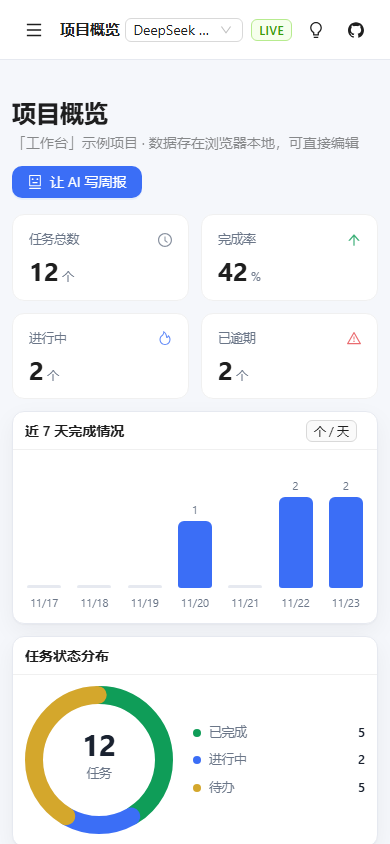
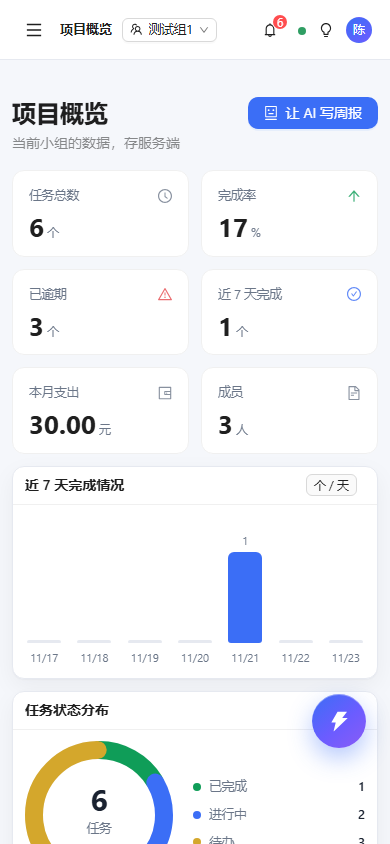
fix: 手机端顶栏溢出与悬浮球菜单方向
- 顶栏次要控件（命令面板、模型下拉、LIVE 标签、GitHub）收进 header-extra，<768px 隐藏
- 手机上改为 汉堡 + 标题 + 小组 + 提醒 + 健康指示灯 + 头像，标题不再竖排换行
- 主题与模型切换移进头像菜单（含模型二级菜单），手机也能切
- 悬浮球在左半边时菜单向右展开、靠近顶部时改为向下展开
- 菜单加实底容器与阴影，压在卡片上也能看清；手机球体略缩小

diff --git a/src/components/AppShell.tsx b/src/components/AppShell.tsx
@@ -68,6 +68,13 @@ const NAV = [
   { key: '/settings', icon: <SettingOutlined />, label: '设置与数据' },
 ];
 
+const HEALTH_DOT: Record<string, string> = {
+  green: '#2f9e63',
+  orange: '#d4a72c',
+  red: '#e5484d',
+  default: '#c4ccd8',
+};
+
 const MENU_ITEMS = [
   { type: 'group' as const, label: '工作台', children: NAV.slice(0, 6) },
   { type: 'group' as const, label: 'AI 能力', children: NAV.slice(6, 9) },
@@ -270,6 +277,7 @@ export function AppShell() {
               </Badge>
             </Popover>
 
+            <span className="header-extra">
             <Tooltip title={SHORTCUT_LABEL + ' 打开命令面板'}>
               <Button
                 size="small"
@@ -318,6 +326,24 @@ export function AppShell() {
               </Tag>
             </Tooltip>
 
+            <Tooltip title="GitHub">
+              <Button
+                size="small"
+                type="text"
+                aria-label="GitHub"
+                icon={<GithubOutlined />}
+                onClick={() => window.open('https://github.com/mobai02/ai-console', '_blank', 'noopener')}
+              />
+            </Tooltip>
+            </span>
+
+            <Tooltip title={healthMeta.tooltip}>
+              <span
+                className="health-dot"
+                style={{ background: HEALTH_DOT[healthMeta.color] ?? '#c4ccd8' }}
+              />
+            </Tooltip>
+
             <Tooltip title={dark ? '切到浅色' : '切到深色'}>
               <Button
                 size="small"
@@ -339,10 +365,26 @@ export function AppShell() {
                   },
                   { type: 'divider' },
                   { key: 'groups', icon: <SwapOutlined />, label: '切换 / 加入小组' },
+                  {
+                    key: 'model',
+                    icon: <ExperimentOutlined />,
+                    label: `模型（${activeModel?.label ?? '-'}）`,
+                    children: models.map((model) => ({
+                      key: `model:${model.id}`,
+                      label: model.label,
+                    })),
+                  },
+                  {
+                    key: 'theme',
+                    icon: dark ? <BulbFilled /> : <BulbOutlined />,
+                    label: dark ? '切到浅色' : '切到深色',
+                  },
                   { key: 'logout', icon: <LogoutOutlined />, label: '退出登录', danger: true },
                 ],
                 onClick: ({ key }) => {
                   if (key === 'groups') navigate('/groups');
+                  if (key === 'theme') toggleDark();
+                  if (key.startsWith('model:')) setModelId(key.slice(6));
                   if (key === 'logout') {
                     void logout().then(() => navigate('/login', { replace: true }));
                   }
@@ -353,16 +395,6 @@ export function AppShell() {
                 {user?.displayName?.slice(0, 1) ?? '?'}
               </Avatar>
             </Dropdown>
-
-            <Tooltip title="GitHub">
-              <Button
-                size="small"
-                type="text"
-                aria-label="GitHub"
-                icon={<GithubOutlined />}
-                onClick={() => window.open('https://github.com/mobai02/ai-console', '_blank', 'noopener')}
-              />
-            </Tooltip>
           </Space>
         </Header>
 

diff --git a/src/styles/global.css b/src/styles/global.css
@@ -2665,3 +2665,108 @@ html[data-theme='dark'] .alert-banner {
     animation: none !important;
   }
 }
+
+
+/* ---- 顶栏自适应 ---- */
+
+.header-title {
+  white-space: nowrap;
+  overflow: hidden;
+  text-overflow: ellipsis;
+  min-width: 0;
+}
+
+.header-extra {
+  display: inline-flex;
+  align-items: center;
+  gap: 8px;
+}
+
+.health-dot {
+  display: none;
+  width: 8px;
+  height: 8px;
+  border-radius: 50%;
+  flex: none;
+}
+
+@media (max-width: 767px) {
+  .app-header {
+    padding: 0 8px;
+    gap: 4px;
+  }
+
+  .header-extra {
+    display: none;
+  }
+
+  .health-dot {
+    display: inline-block;
+  }
+
+  .group-switch-btn {
+    max-width: 112px;
+  }
+
+  .group-switch-name {
+    max-width: 62px;
+  }
+
+  /* 手机上标题不换行，挤不下就省略 */
+  .header-title {
+    font-size: 13px;
+    max-width: 88px;
+  }
+}
+
+/* ---- 悬浮球菜单跟随方向 ---- */
+
+.fab-root.is-left .fab-menu {
+  right: auto;
+  left: 0;
+  align-items: flex-start;
+}
+
+/* 菜单加一个实底容器，压在卡片上也能看清 */
+.fab-menu {
+  padding: 8px;
+  border-radius: 16px;
+  background: var(--panel);
+  border: 1px solid var(--border);
+  box-shadow: 0 14px 34px rgba(15, 23, 42, 0.16);
+}
+
+.fab-item-icon {
+  width: 36px;
+  height: 36px;
+  font-size: 15px;
+}
+
+.fab-item-label {
+  font-size: 12px;
+}
+
+@media (max-width: 767px) {
+  .fab {
+    width: 48px;
+    height: 48px;
+    font-size: 19px;
+  }
+
+  .fab-menu {
+    bottom: 58px;
+  }
+
+  .fab-root.is-below .fab-menu {
+    top: 58px;
+  }
+}
+
+.fab-root.is-left .fab-item {
+  flex-direction: row-reverse;
+}
+
+.fab-root.is-below .fab-menu {
+  bottom: auto;
+  top: 66px;
+}

diff --git a/src/components/FloatingBall.tsx b/src/components/FloatingBall.tsx
@@ -140,6 +140,10 @@ export function FloatingBall() {
 
   if (!point) return null;
 
+  // 球在左半边就把菜单往右展开，贴着顶就把菜单翻到下方，避免被屏幕裁掉
+  const onLeft = point.x + SIZE / 2 < window.innerWidth / 2;
+  const opensBelow = point.y < 220;
+
   const actions = [
     {
       key: 'voice',
@@ -171,7 +175,11 @@ export function FloatingBall() {
   ];
 
   return (
-    <div ref={rootRef} className="fab-root" style={{ left: point.x, top: point.y }}>
+    <div
+      ref={rootRef}
+      className={cn('fab-root', onLeft && 'is-left', opensBelow && 'is-below')}
+      style={{ left: point.x, top: point.y }}
+    >
       {open && (
         <div className="fab-menu">
           {actions.map((action, index) => (
